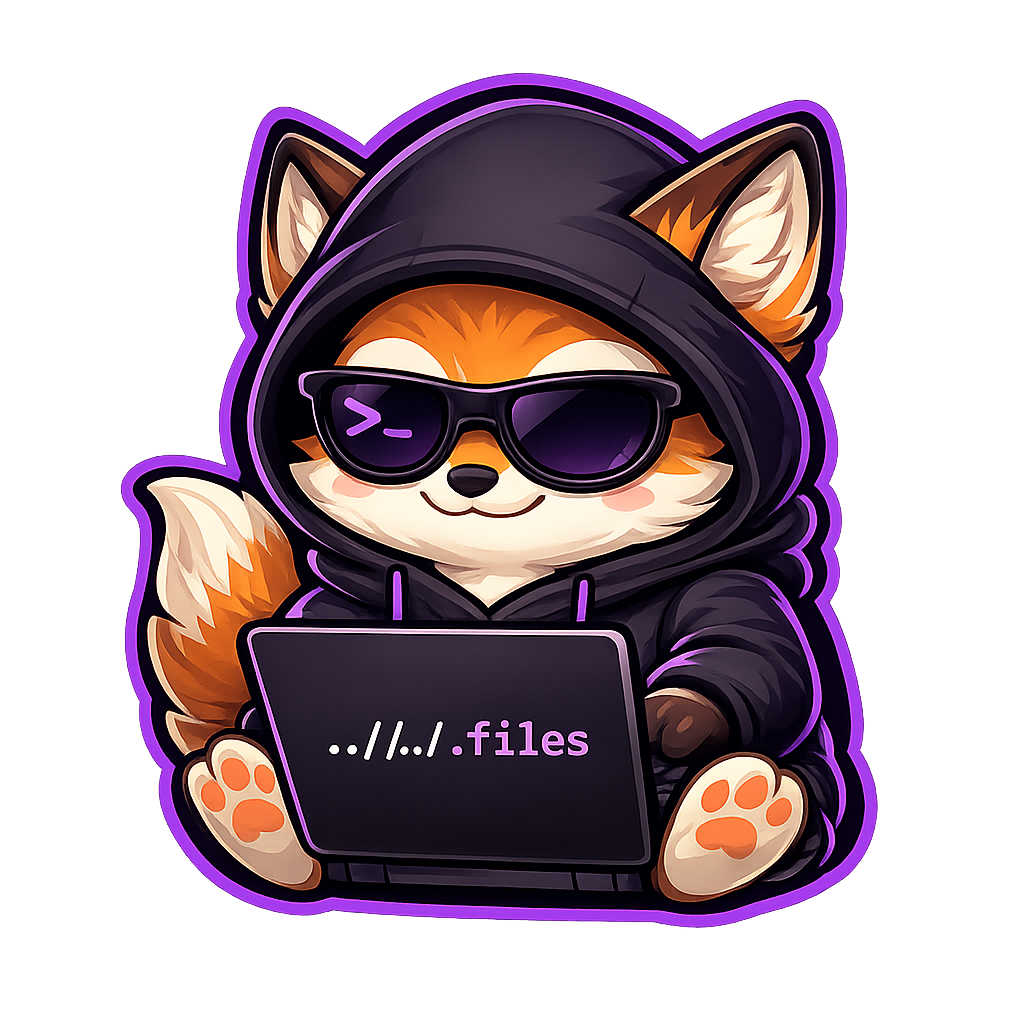
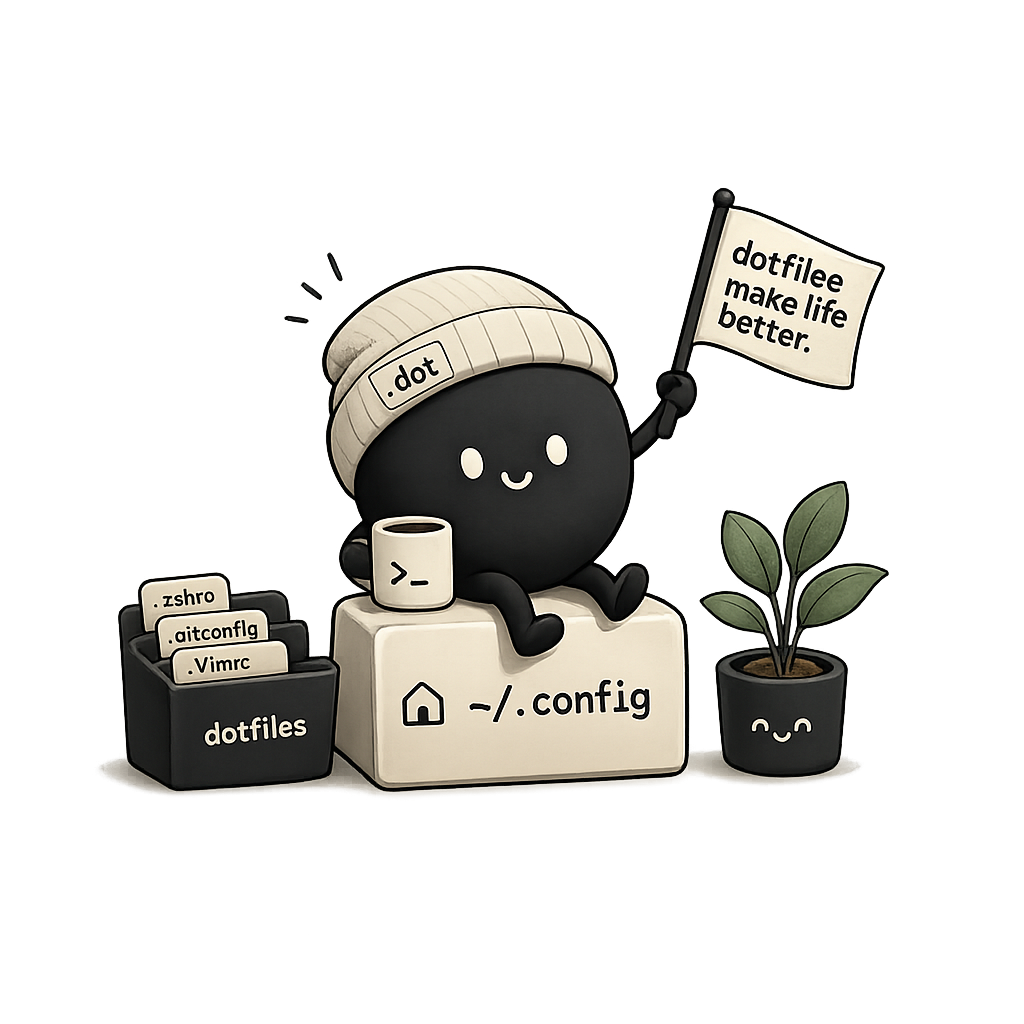
fixing readme + new mascot

diff --git a/README.md b/README.md
@@ -1,13 +1,13 @@
 <h1 align="center">
-    <img src="assets/mascot.png" width="280" alt="Bucky logo"/>
+    <img src="assets/mascot.png" width="280" alt="Dot Mascot"/>
     <br/>
-    <sub>dootfiles</sub>
+    <sub>dotfiles</sub>
 </h1>
 
 <p align="center">
     <img alt="GNU Stow" src="https://img.shields.io/badge/managed_with-GNU_Stow-4CAF50?style=flat-square&logo=gnu&logoColor=white"/>
     <img alt="macOS" src="https://img.shields.io/badge/platform-macOS-000000?style=flat-square&logo=apple&logoColor=white"/>
-    <img alt="fish shell" src="https://img.shields.io/badge/shell-fish-4FC3F7?style=flat-square"/>
+    <img alt="zsh shell" src="https://img.shields.io/badge/shell-zsh-4FC3F7?style=flat-square"/>
     <img alt="LazyVim" src="https://img.shields.io/badge/editor-LazyVim-7C3AED?style=flat-square"/>
 </p>
 
@@ -33,47 +33,47 @@ All configs live under `.config/` and are symlinked into `~/.config` via GNU Sto
 
 ### Shell
 
-| Config | What it does |
-| --- | --- |
-| `fish` | Primary shell — functions, completions, abbreviations, and `$PATH` setup all live here |
-| `nushell` | Nu shell config for when you want structured data pipelines instead of text streams |
+| Config     | What it does                                                                                 |
+| ---------- | -------------------------------------------------------------------------------------------- |
+| `zsh`      | Primary shell — functions, completions, abbreviations, and `$PATH` setup all live here       |
+| `nushell`  | Nu shell config for when you want structured data pipelines instead of text streams          |
 | `starship` | Cross-shell prompt that shows only what's relevant: git state, language versions, exit codes |
-| `atuin` | Replaces shell history with a searchable, syncable SQLite database |
+| `atuin`    | Replaces shell history with a searchable, syncable SQLite database                           |
 
 ### Editor & Terminal
 
-| Config | What it does |
-| --- | --- |
-| `nvim` | [LazyVim](https://www.lazyvim.org) — a full IDE setup without the config sprawl |
-| `zed` | Fast native editor for when you want to stay out of the terminal |
-| `ghostty` | GPU-accelerated terminal with a sane default config and zero latency |
-| `tmux` | Session persistence and window management; TPM handles plugins |
-| `zellij` | Multiplexer alternative with a built-in layout system — useful for complex workspace configs |
+| Config    | What it does                                                                                 |
+| --------- | -------------------------------------------------------------------------------------------- |
+| `nvim`    | [LazyVim](https://www.lazyvim.org) — a full IDE setup without the config sprawl              |
+| `zed`     | Fast native editor for when you want to stay out of the terminal                             |
+| `ghostty` | GPU-accelerated terminal with a sane default config and zero latency                         |
+| `tmux`    | Session persistence and window management; TPM handles plugins                               |
+| `zellij`  | Multiplexer alternative with a built-in layout system — useful for complex workspace configs |
 
 ### TUI Tools
 
-| Config | What it does |
-| --- | --- |
-| `lazygit` | Git operations without memorizing flags — branches, rebases, and diffs in a single view |
-| `lazydocker` | Container and image management TUI that replaces most `docker` invocations |
-| `k9s` | Kubernetes cluster management from the terminal; essential when `kubectl get` isn't enough |
-| `yazi` | Terminal file manager with previews, bulk operations, and plugin support |
-| `television` | Fuzzy finder built for speed — a ripgrep-powered `fzf` alternative |
-| `hunk` | Patch review and staging TUI |
+| Config       | What it does                                                                               |
+| ------------ | ------------------------------------------------------------------------------------------ |
+| `lazygit`    | Git operations without memorizing flags — branches, rebases, and diffs in a single view    |
+| `lazydocker` | Container and image management TUI that replaces most `docker` invocations                 |
+| `k9s`        | Kubernetes cluster management from the terminal; essential when `kubectl get` isn't enough |
+| `yazi`       | Terminal file manager with previews, bulk operations, and plugin support                   |
+| `television` | Fuzzy finder built for speed — a ripgrep-powered `fzf` alternative                         |
+| `hunk`       | Patch review and staging TUI                                                               |
 
 ### System & Productivity
 
-| Config | What it does |
-| --- | --- |
-| `karabiner` | Keyboard remapping at the driver level — complex modifications, home-row mods, layer switching |
-| `mise` | Runtime version manager for Node, Python, Ruby, and anything else — replaces `nvm`, `rbenv`, `pyenv` |
-| `bat` | `cat` with syntax highlighting, line numbers, and git diff markers |
-| `btop` | System monitor with a layout that actually uses your terminal width |
-| `gh` | Official GitHub CLI — PRs, issues, workflows, and releases from the terminal |
-| `gh-dash` | Dashboard TUI for `gh` — all your open PRs and issues in one view |
-| `raycast` | Launcher extensions and scripts |
-| `sqruff` | SQL linter and formatter config |
-| `bucky` | Local configuration for this setup's custom tooling |
+| Config      | What it does                                                                                         |
+| ----------- | ---------------------------------------------------------------------------------------------------- |
+| `karabiner` | Keyboard remapping at the driver level — complex modifications, home-row mods, layer switching       |
+| `mise`      | Runtime version manager for Node, Python, Ruby, and anything else — replaces `nvm`, `rbenv`, `pyenv` |
+| `bat`       | `cat` with syntax highlighting, line numbers, and git diff markers                                   |
+| `btop`      | System monitor with a layout that actually uses your terminal width                                  |
+| `gh`        | Official GitHub CLI — PRs, issues, workflows, and releases from the terminal                         |
+| `gh-dash`   | Dashboard TUI for `gh` — all your open PRs and issues in one view                                    |
+| `raycast`   | Launcher extensions and scripts                                                                      |
+| `sqruff`    | SQL linter and formatter config                                                                      |
+| `bucky`     | Local configuration for this setup's custom tooling                                                  |
 
 ---
 
@@ -119,7 +119,7 @@ Always run this first on an unfamiliar machine:
 stow -nv --target="$HOME" .
 ```
 
-Prints every link that *would* be created or removed. Nothing is changed.
+Prints every link that _would_ be created or removed. Nothing is changed.
 
 ### Stow — create symlinks
 
@@ -200,7 +200,7 @@ stow --adopt --target="$HOME" .
 git diff  # always review before committing — adopt can be destructive
 ```
 
-> **Note on `--adopt`:** This flag rewrites the file *in your repo* to match what's on disk. If the on-disk version is worse than what you had committed, you'll overwrite your config. Check `git diff` before you `git add` anything.
+> **Note on `--adopt`:** This flag rewrites the file _in your repo_ to match what's on disk. If the on-disk version is worse than what you had committed, you'll overwrite your config. Check `git diff` before you `git add` anything.
 
 ---
 
@@ -210,7 +210,7 @@ git diff  # always review before committing — adopt can be destructive
 
 API keys, tokens, session cookies, and passwords do not belong here. The right pattern:
 
-- Machine-specific secrets live in a file sourced *outside* this repo (e.g. `~/.config/fish/local.fish` added to `.gitignore`)
+- Machine-specific secrets live in a file sourced _outside_ this repo (e.g. `~/.config/fish/local.fish` added to `.gitignore`)
 - Long-term secrets belong in a password manager or secrets manager, not in any dotfile
 - If you accidentally commit a secret, treat it as compromised immediately — git history is public
 